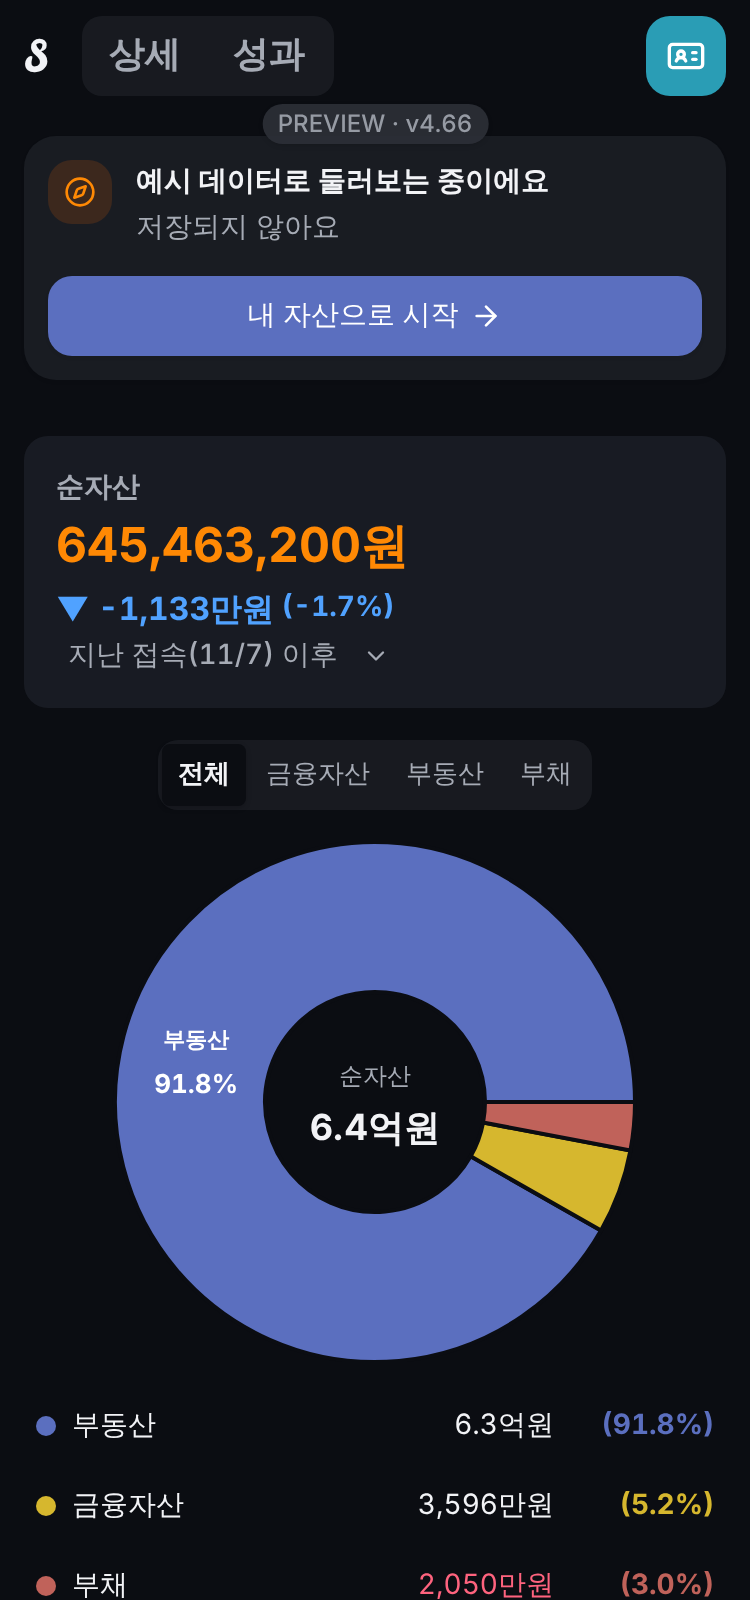
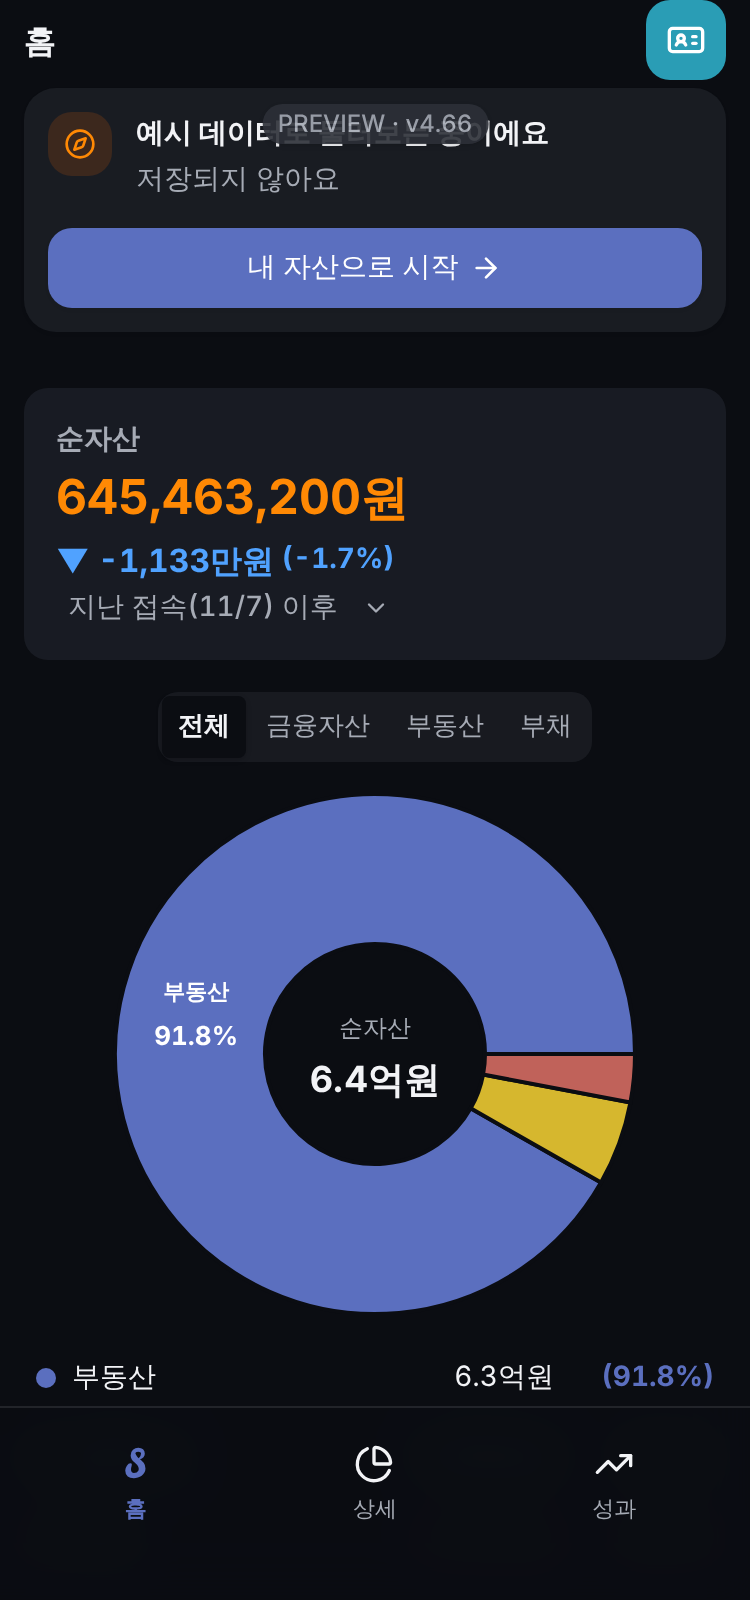
memory: 4.66 R1 개발 노트·after 캡처

diff --git a/issues/4.67-127-monthly-log/4.67-decision-brief.md b/issues/4.67-127-monthly-log/4.67-decision-brief.md
@@ -1,7 +1,27 @@
 # 4.67 월별 기록 — decision-brief (#127, PR #128)
 
 작성: cto(COO) 2026-11-09 · **확정 기준 커밋 ccd939c** (= `ls-remote origin issue-4.67` = qa 증분 PASS = Vercel success, PR #128 head 동일) · origin/main dc4133d(v4.65) 그대로
-**상태: 확정 — 대표 승인 요청 가.** U1(9ad2363)·U2(ccd939c) 모두 해소.
+**상태(11-09 대표 지적 R1 후): 미확정 — R1 재승인 FAIL, development 되돌림(U3).** 아래 ccd939c 기준 본문은 R1 이전 판정. U1(9ad2363)·U2(ccd939c) 모두 해소.
+
+## R1 재승인 (f92663e, 대표 지적 R1) — 판정: FAIL(U3 1건)
+| # | 항목 | 판정 | 근거 |
+|---|---|---|---|
+| R1-a | 구성 변화 막대 최소 비중 | PASS | 93/4/1/2% → 표시 79/7/7/7%(qa 320·375 라이트/다크). 작은 자산군 3개 모두 보이고, 표시 숫자·목록은 실제 값. 순서 보존·합 100 단위 테스트. 7% 같은 폭(4%·1%·2%)은 바로 아래 목록에 실제 %가 있어 오해 위험 낮음. 이 블록은 운영 중인 화면이지만 변경은 표시 폭 1곳 — 회귀 범위 구성 블록 한정 |
+| R1-b | 가로 스크롤 하나로 | PASS(조건부) | 순자산 오른쪽 고정 해제 → 월만 고정, 나머지 한 덩어리로 이동. 320·375·414 스크롤러 1개, 시트·문서 넘침 0(qa). 단 수정 전 코드도 스크롤 컨테이너는 1개였음 → '2개'는 양끝 고정 칸 때문에 갈라져 보인 것으로 해석한 수정이며, 대표 기기(iOS Safari) 재현 근거는 없음(qa 한계: webkit 없음) |
+| R1-c | 순자산 확인 편의 | **수정 필요(U3)** | 375 기본 위치에서 **순자산 열이 화면 밖**(`qa-r1-w375-light-sheet.png`: 월·부동산·주식·암호화폐·현금성·대출까지 보이고 순자산 없음, 대출 열이 오른쪽 끝에 딱 맞아 더 있다는 단서도 없음). 결산 Hero와 이어지는 핵심 숫자가 대출 보유자(=자산군 5개 이상, 대표 본인 데이터 형태)에게 첫 화면에서 사라짐. 수정 전엔 대출이 가려졌고 지금은 순자산이 가려짐 — 대표 재지적 가능성 높음 |
+| R1-d | 다른 화면 회귀 | PASS | `displayBarWidths`·표 변경은 결산 구성 블록·월별 기록 시트 2곳만 사용(grep). 저장·동기화·스키마 0 |
+| C46 | UI 증분 검수 | 미충족 | f92663e에 대한 ui-review 기록 없음 → U3 반영분과 함께 ui 재검수 |
+
+### U3 수정 지시 (development → ui 재검수 → qa 증분)
+- 화면: 성과 › 자산 변화 › 월 탭 › 월별 기록 시트.
+- 변경: **순자산 열을 월 열 바로 다음(2번째)으로 옮긴다.** 고정(sticky) 없이 다른 열과 함께 이동(가로 스크롤 1개 유지, 고정은 월 열만). 순자산 칸 굵게·자산군과의 경계선은 순자산 오른쪽(`EDGE_R`)으로. 1280도 같은 순서(화면 폭별 순서 다르게 하지 않음).
+- 기대값: 375·320 데모(자산군 5열)에서 스크롤 0 위치에 `월 | 순자산 | 부동산 | …`가 보이고, 오른쪽 끝 열이 잘려 보여 스크롤 단서가 생김(잘림이 열 경계와 딱 맞으면 그대로 둠 — 별도 그림자·화살표 추가 금지, 작게). 순자산 = 결산 Hero 끝값. 스크롤러 1개·월 열 고정·시트 넘침 0 유지. 4열 이하 375 무스크롤 유지(C58·U1 측정값 회귀 없음).
+- 대안 금지: 순자산 오른쪽 고정 복원(대표 지적 재발), 초기 scrollLeft를 끝으로(부동산이 가려짐).
+- 단위 테스트·`qa-full-test-plan` F-* 열 순서 문구, spec/ui.md 열 순서 1줄 갱신.
+
+### 대표 재지적 가능성 (U3 뒤에도 남는 것)
+- iOS Safari 실기기에서 '스크롤 2개'가 다른 원인(기기 고유)일 가능성 — webkit 미검증. 재지적 시 대표 기기 화면 캡처 기준으로 원인부터 재현.
+- 7% 막대에서 4%·1%·2%가 같은 폭 — 대표 요청(안내용 최소 비중) 그대로라 수용.
 
 ## 권고: 반영 — 앱에 저장돼 있으나 화면에 없던 '지난 달들의 자산군 금액'을 읽기 전용으로 처음 보여 줌. 앱 밖으로 내보내는 기능 0, 저장 변경 0
 

diff --git a/issues/4.66-125-nav-restructure/4.66-dev-notes.md b/issues/4.66-125-nav-restructure/4.66-dev-notes.md
@@ -31,3 +31,9 @@ tsc 0 오류, lint 에러 0, vitest 1427 통과(신규 `src/lib/__tests__/bottom
 - 테스트: tsc·lint(에러 0)·vitest 1429·build 통과. 정적 테스트 `src/lib/__tests__/bottom-nav-5col.test.ts`.
 - preview 확인 경로(PWA 에뮬레이션 display-mode standalone, 375/320, safe-area 0·47 주입): 홈 맨 위 줄(로고+아이콘) → 아이콘 탭 → 대화상자 1개 → 하단 상세 → 제목 줄 아이콘 → 성과 동일 → 상세›주식 / 성과›자산 변화 뒤로가기 헤더 오른쪽 아이콘. 브라우저 375·1280은 변화 없어야 함.
 - 알려진 한계: 실기기 PWA(iOS safe-area·Android) 미검증(V8). 홈 첫 카드 증가량은 계산상 +20(sa0)/+44(sa47) — 실측은 qa. 허브 부제 줄 수 증가 여부는 qa 측정 대상.
+
+## 대표 지적 R1 (홈 상단 S 허전함·로고 중복) — 커밋 7276c84
+- 사양: `4.66-ui-r1.md` 권장안 C 그대로. PWA(standalone) 홈에서 `.pwa-home-logo` 숨김, `<h2 data-testid="top-bar-home-title">홈</h2>` 표시(허브 h2와 동일 스타일). 브라우저 모드 diff 0. 변경: `top-bar.tsx`, `globals.css`(PC 전용 로고 숨김 규칙을 공용 규칙으로 흡수).
+- preview 확인(`?trial=1`, standalone 에뮬레이션): 375·320 제목 x=12·16px/700, 헤더 40px, 제목 세로중심=인증카드(y=20) 일치, 로고 display none, 가로 스크롤 0. 1280 제목 x=48·24px/700, 아이콘 44×44, 헤더 44px.
+- 캡처: `screenshots/ui-r1-after-{375,320,1280}-{light,dark}.png`.
+- 에뮬레이션 방식: headless에서 display-mode 미디어 쿼리가 적용되지 않아 로드 후 styleSheets의 `display-mode` 미디어 규칙을 `all`로 바꿔 standalone 효과를 재현(모바일은 iPhone UA).
